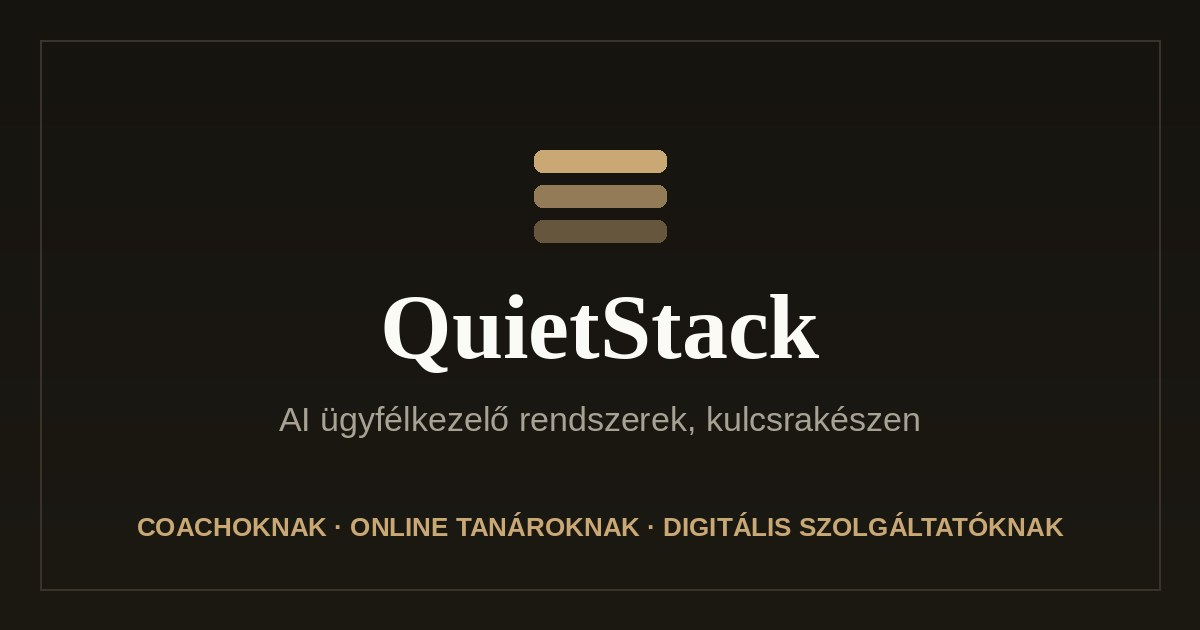
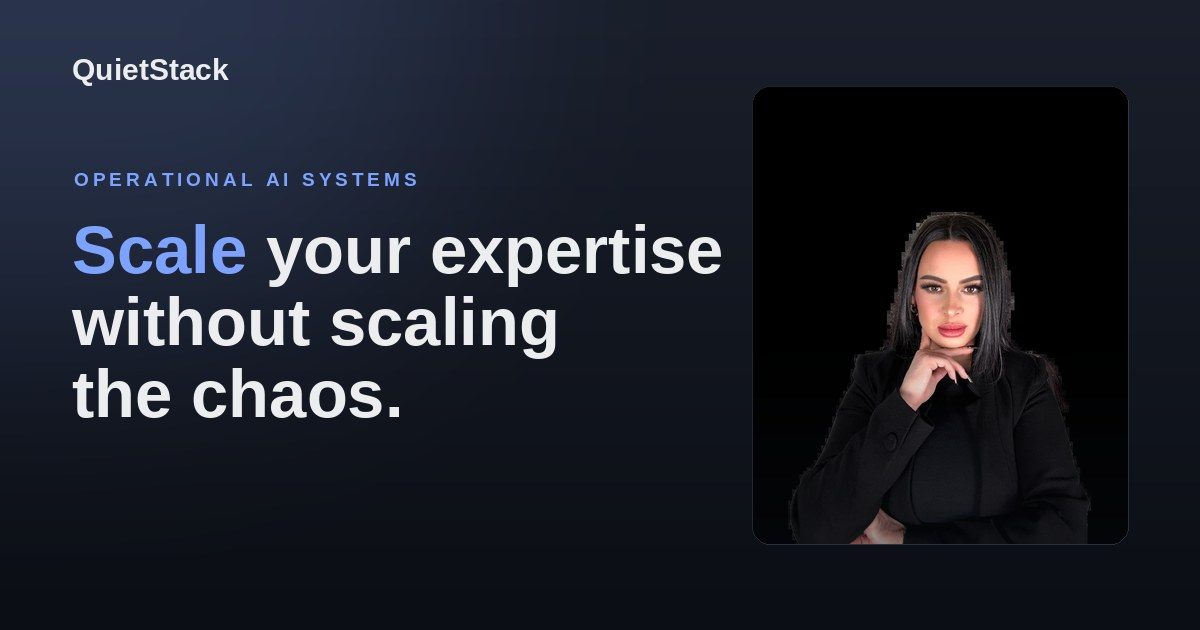
Reframe hero portrait higher, refresh OG image, add two form questions
- Hero portrait: tighter, less-tall crop (4/4.2) framed on the head and
  torso so the subject sits higher next to the headline (more authority),
  removing the dark headroom in the source photo.
- Regenerated the social/OG share image to match the hero first block
  (graphite gradient, eyebrow, headline, portrait).
- Lead form: added "What would you most like to take off your plate
  first?" (required select) and an optional indicative-budget range.
  Both are picked up automatically via FormData.

https://claude.ai/code/session_01VhxijwSCRXbHAtKTGhnVxw

diff --git a/index.html b/index.html
@@ -135,7 +135,7 @@
     .hero-label { display: inline-block; font-family: var(--mono); font-size: 0.72rem; font-weight: 600; letter-spacing: 0.3em; text-transform: uppercase; color: var(--accent); opacity: 0.85; margin-bottom: 26px; }
     .hero-right { position: relative; }
     .hero-portrait-wrap { position: relative; }
-    .hero-portrait { display: block; width: 100%; aspect-ratio: 4 / 5; object-fit: cover; object-position: 72% center; border-radius: 16px; border: 1px solid rgba(170,190,230,0.14); box-shadow: 0 50px 100px -52px rgba(0,0,0,0.88); filter: grayscale(0.12) contrast(1.04) brightness(0.94); }
+    .hero-portrait { display: block; width: 100%; aspect-ratio: 4 / 4.2; object-fit: cover; object-position: 50% 88%; border-radius: 16px; border: 1px solid rgba(170,190,230,0.14); box-shadow: 0 50px 100px -52px rgba(0,0,0,0.88); filter: grayscale(0.12) contrast(1.04) brightness(0.94); }
     .hero-portrait-wrap::after { content: ""; position: absolute; inset: 0; border-radius: 16px; pointer-events: none; background: linear-gradient(180deg, transparent 46%, rgba(9,11,17,0.5)); }
     .hero-panel-float { position: absolute; left: -30px; bottom: -26px; width: min(290px, 82%); z-index: 3; padding: 18px 18px 15px; }
     .hero-panel-float .hp-title { font-size: 0.95rem; }
@@ -1266,6 +1266,29 @@
               <option>Agency</option>
               <option>Online service business</option>
               <option>Other</option>
+            </select>
+          </div>
+          <div class="lf-row">
+            <label for="lf-automate">What would you most like to take off your plate first?</label>
+            <select id="lf-automate" name="automate" required>
+              <option value="" disabled selected>Choose...</option>
+              <option>Lead capture &amp; follow-up</option>
+              <option>Client onboarding &amp; delivery</option>
+              <option>Scheduling &amp; admin</option>
+              <option>Reporting &amp; data</option>
+              <option>Content &amp; marketing ops</option>
+              <option>Not sure yet — let's explore</option>
+            </select>
+          </div>
+          <div class="lf-row">
+            <label for="lf-budget">Indicative budget for this project (optional)</label>
+            <select id="lf-budget" name="budget">
+              <option value="" disabled selected>Choose a range...</option>
+              <option>Under €2,000</option>
+              <option>€2,000 – €5,000</option>
+              <option>€5,000 – €10,000</option>
+              <option>€10,000+</option>
+              <option>Still deciding</option>
             </select>
           </div>
           <div class="lf-row">